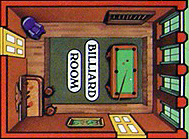
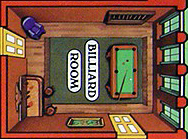
updated billiardRoomRoom image and aligned the door tp match the square

diff --git a/src/cluedo/gui/CluedoCanvas.java b/src/cluedo/gui/CluedoCanvas.java
@@ -117,12 +117,11 @@ public class CluedoCanvas extends JPanel {
 		g.drawImage(ballroomIm, x+ballRm.x*Tile.TILESIZE, y+ballRm.y*Tile.TILESIZE, ballRm.width*Tile.TILESIZE, ballRm.height*Tile.TILESIZE, null);
 		g.drawImage(diningRoomIm, x+diningRoom.x*Tile.TILESIZE, y+diningRoom.y*Tile.TILESIZE, diningRoom.width*Tile.TILESIZE, diningRoom.height*Tile.TILESIZE, null);
 		g.drawImage(loungeIm, x+lounge.x*Tile.TILESIZE, y+lounge.y*Tile.TILESIZE, lounge.width*Tile.TILESIZE, lounge.height*Tile.TILESIZE, null);
-		g.drawImage(hallIm, x+hall.x*Tile.TILESIZE, y+hall.y*Tile.TILESIZE, hall.width*Tile.TILESIZE, hall.height*Tile.TILESIZE, null);
+		g.drawImage(hallIm, x+hall.x*Tile.TILESIZE, y+hall.y*Tile.TILESIZE, hall.width*Tile.TILESIZE, hall.height*Tile.TILESIZE+9, null);
 		g.drawImage(studyIm, x+study.x*Tile.TILESIZE, y+study.y*Tile.TILESIZE, study.width*Tile.TILESIZE, study.height*Tile.TILESIZE, null);
-		g.drawImage(libraryIm, x+library.x*Tile.TILESIZE, y+library.y*Tile.TILESIZE, library.width*Tile.TILESIZE, library.height*Tile.TILESIZE, null);
-		g.drawImage(billiardRoomIm, x+billiardRm.x*Tile.TILESIZE, y+billiardRm.y*Tile.TILESIZE, billiardRm.width*Tile.TILESIZE, billiardRm.height*Tile.TILESIZE, null);
+		g.drawImage(libraryIm, x+library.x*Tile.TILESIZE, y+library.y*Tile.TILESIZE, library.width*Tile.TILESIZE+8, library.height*Tile.TILESIZE, null);
+		g.drawImage(billiardRoomIm, x+billiardRm.x*Tile.TILESIZE, y+billiardRm.y*Tile.TILESIZE, billiardRm.width*Tile.TILESIZE+10, billiardRm.height*Tile.TILESIZE, null);
 		g.drawImage(conservatoryIm, x+conservatory.x*Tile.TILESIZE, y+conservatory.y*Tile.TILESIZE, conservatory.width*Tile.TILESIZE, conservatory.height*Tile.TILESIZE, null);
-		g.drawImage(hallIm, x+hall.x*Tile.TILESIZE, y+hall.y*Tile.TILESIZE, hall.width*Tile.TILESIZE, hall.height*Tile.TILESIZE, null);
 	}
 
 	private void initialise(Graphics g){
